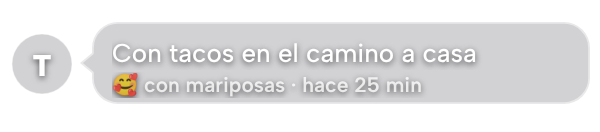
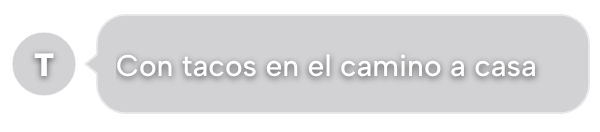
v0.16: widget Mensaje de tu pareja solo con el mensaje, más grande y en dos renglones (D153)
Claude-Session: https://claude.ai/code/session_014Dsa232AGtBDfYiLzBcD7V

diff --git a/src/widgets/components/message.ts b/src/widgets/components/message.ts
@@ -18,12 +18,13 @@ const TAIL_H = 10;
 /** Sombra tonal de la burbuja (dp): más sutil que la de las formas del lienzo de 100. */
 export const BUBBLE_SHADOW = 3;
 /** Relleno interior de la burbuja (dp). */
-const PAD_IN = 6;
+const PAD_IN = 7;
 const PAD_IN_X = 10;
-const AVATAR = 34;
-const FONT_SIZE = 13;
-const META_SIZE = 10.5;
-const META_HEIGHT = 13;
+const AVATAR = 36;
+/** Letra del mensaje (v0.16: de 13 a 15, sin la línea del mood debajo). */
+const FONT_SIZE = 15;
+/** Renglones del mensaje cuando la celda da para ellos. */
+const MAX_LINES = 2;
 
 export type MessageLayout = {
   /** Diámetro del círculo de la inicial y su esquina superior izquierda (dp, desde el widget). */
@@ -41,30 +42,27 @@ export type MessageLayout = {
   /** Altura (en la caja de la burbuja) a la que apunta la colita. */
   tailY: number;
   fontSize: number;
-  metaSize: number;
   initialSize: number;
   lineHeight: number;
-  /** Líneas del mensaje: siempre una, con "…" si no cabe (v0.14.2). */
+  /** Renglones del mensaje (con "…" si no cabe): 2, o 1 si la celda es muy bajita. */
   lines: number;
-  /** Si va la línea del mood debajo del mensaje. */
-  showMeta: boolean;
   /** Relleno del texto dentro de la caja de la burbuja. */
   textLeft: number;
   textRight: number;
 };
 
 /**
- * Burbuja delgadita (v0.14.2): mide lo que su contenido (una línea de mensaje y la del mood) y va
- * centrada en el alto del widget, sin importar el tamaño de la celda. Sin espacio muerto.
+ * Burbuja (v0.16): solo el mensaje, a la izquierda y en hasta dos renglones; mide lo que su contenido y
+ * va centrada en el alto del widget, sin importar el tamaño de la celda. Si la celda no da para
+ * dos renglones, se queda en uno.
  */
-export function messageLayout(size: MessageSize, hasMeta: boolean): MessageLayout {
+export function messageLayout(size: MessageSize): MessageLayout {
   const height = Math.max(36, Math.floor(size.height));
   const width = Math.max(120, Math.floor(size.width));
   const lineHeight = Math.ceil(FONT_SIZE * 1.25);
-  const withMeta = PAD_IN * 2 + lineHeight + 1 + META_HEIGHT;
-  // Si la celda es muy bajita, se va la línea del mood antes que el mensaje.
-  const showMeta = hasMeta && withMeta + BUBBLE_SHADOW <= height;
-  const bodyHeight = showMeta ? withMeta : PAD_IN * 2 + lineHeight;
+  const bodyFor = (n: number) => PAD_IN * 2 + lineHeight * n;
+  const lines = bodyFor(MAX_LINES) + BUBBLE_SHADOW <= height ? MAX_LINES : 1;
+  const bodyHeight = bodyFor(lines);
   const bubbleHeight = bodyHeight + BUBBLE_SHADOW;
   const avatar = Math.min(AVATAR, height - 2);
   const avatarLeft = PAD_X;
@@ -73,7 +71,7 @@ export function messageLayout(size: MessageSize, hasMeta: boolean): MessageLayou
   const bubbleTop = Math.max(0, Math.round((height - bubbleHeight) / 2));
   const avatarTop = Math.max(0, bubbleTop + Math.round((bodyHeight - avatar) / 2));
   // Deja recto el tramo del costado donde sale la colita.
-  const radius = Math.min(14, Math.max(4, Math.floor(bodyHeight / 2) - TAIL_H / 2 - 1));
+  const radius = Math.min(16, Math.max(4, Math.floor(bodyHeight / 2) - TAIL_H / 2 - 1));
 
   return {
     avatar,
@@ -87,11 +85,9 @@ export function messageLayout(size: MessageSize, hasMeta: boolean): MessageLayou
     radius,
     tailY: Math.round((bodyHeight / 2) * 10) / 10,
     fontSize: FONT_SIZE,
-    metaSize: META_SIZE,
     initialSize: Math.round(avatar * 0.46),
     lineHeight,
-    lines: 1,
-    showMeta,
+    lines,
     textLeft: TAIL_W + PAD_IN_X,
     textRight: PAD_IN_X,
   };
@@ -151,8 +147,8 @@ export function bubbleSvg(l: MessageLayout, style: WidgetStyle, partner: FruitKe
 }
 
 /** Colores del texto de la burbuja. */
-export function bubbleText(style: WidgetStyle): { message: string; meta: string; shadow: boolean } {
+export function bubbleText(style: WidgetStyle): { message: string; shadow: boolean } {
   return style === 'frost'
-    ? { message: '#FFFFFF', meta: 'rgba(255,255,255,0.8)', shadow: true }
-    : { message: lightColors.ink, meta: lightColors.inkMuted, shadow: false };
+    ? { message: '#FFFFFF', shadow: true }
+    : { message: lightColors.ink, shadow: false };
 }

diff --git a/src/widgets/__tests__/message.test.ts b/src/widgets/__tests__/message.test.ts
@@ -9,55 +9,47 @@ import {
 import { FRUITS } from '@/lib/fruits';
 
 describe('messageLayout', () => {
-  it('una sola línea de mensaje con el mood debajo', () => {
-    const l = messageLayout({ width: 320, height: 60 }, true);
-    expect(l.lines).toBe(1);
-    expect(l.showMeta).toBe(true);
+  it('solo el mensaje, en dos renglones con letra de 15', () => {
+    const l = messageLayout({ width: 320, height: 60 });
+    expect(l.lines).toBe(2);
+    expect(l.fontSize).toBe(15);
   });
 
-  it('la burbuja es delgadita: no crece con el alto de la celda', () => {
-    const short = messageLayout({ width: 320, height: 60 }, true);
-    const tall = messageLayout({ width: 320, height: 110 }, true);
+  it('la burbuja no crece con el alto de la celda y va centrada', () => {
+    const short = messageLayout({ width: 320, height: 60 });
+    const tall = messageLayout({ width: 320, height: 110 });
     expect(tall.bubbleHeight).toBe(short.bubbleHeight);
-    expect(short.bubbleHeight).toBeLessThanOrEqual(48);
-    // Centrada en el alto del widget.
+    expect(short.bubbleHeight).toBeLessThanOrEqual(56);
     expect(tall.bubbleTop).toBe(Math.round((110 - tall.bubbleHeight) / 2));
   });
 
-  it('en una celda muy bajita se va el mood, no el mensaje', () => {
-    const l = messageLayout({ width: 250, height: 40 }, true);
-    expect(l.showMeta).toBe(false);
+  it('en una celda muy bajita se queda en un renglón', () => {
+    const l = messageLayout({ width: 250, height: 40 });
     expect(l.lines).toBe(1);
-  });
-
-  it('sin mood, la burbuja es todavía más delgada', () => {
-    const a = messageLayout({ width: 320, height: 80 }, true);
-    const b = messageLayout({ width: 320, height: 80 }, false);
-    expect(b.bubbleHeight).toBeLessThan(a.bubbleHeight);
+    expect(l.bubbleHeight).toBeLessThan(messageLayout({ width: 250, height: 60 }).bubbleHeight);
   });
 
   it('la burbuja cabe en el widget y la colita queda en el tramo recto', () => {
     for (const size of [
       { width: 250, height: 40 },
+      { width: 250, height: 52 },
       { width: 250, height: 60 },
       { width: 320, height: 60 },
       { width: 320, height: 110 },
     ]) {
-      for (const meta of [true, false]) {
-        const l = messageLayout(size, meta);
-        expect(l.bubbleLeft + l.bubbleWidth).toBeLessThanOrEqual(size.width);
-        expect(l.bubbleTop + l.bubbleHeight).toBeLessThanOrEqual(size.height);
-        expect(l.avatarTop + l.avatar).toBeLessThanOrEqual(size.height);
-        expect(l.tailY - 5).toBeGreaterThanOrEqual(l.radius);
-        expect(l.tailY + 5).toBeLessThanOrEqual(l.bodyHeight - l.radius);
-        expect(l.bodyHeight + BUBBLE_SHADOW).toBe(l.bubbleHeight);
-      }
+      const l = messageLayout(size);
+      expect(l.bubbleLeft + l.bubbleWidth).toBeLessThanOrEqual(size.width);
+      expect(l.bubbleTop + l.bubbleHeight).toBeLessThanOrEqual(size.height);
+      expect(l.avatarTop + l.avatar).toBeLessThanOrEqual(size.height);
+      expect(l.tailY - 5).toBeGreaterThanOrEqual(l.radius);
+      expect(l.tailY + 5).toBeLessThanOrEqual(l.bodyHeight - l.radius);
+      expect(l.bodyHeight + BUBBLE_SHADOW).toBe(l.bubbleHeight);
     }
   });
 });
 
 describe('dibujo del mensaje', () => {
-  const l = messageLayout({ width: 320, height: 60 }, true);
+  const l = messageLayout({ width: 320, height: 60 });
   const partner = 'mango';
 
   it('tonal: fruta al 100 % y burbuja Hueso con sombra de la fruta', () => {

diff --git a/src/widgets/components/MessageFrame.tsx b/src/widgets/components/MessageFrame.tsx
@@ -1,6 +1,6 @@
 'use no memo';
 // Widget "Mensaje de tu pareja": a la izquierda un círculo con su inicial y a la derecha una
-// burbuja con colita que lleva la nota de su mood. Sin fondo propio: la burbuja es un SVG
+// burbuja con colita que lleva solo la nota de su mood (a la izquierda y centrada en el alto, hasta dos renglones). Sin fondo propio: la burbuja es un SVG
 // (tonal: Hueso con sombra de su fruta; Escarcha: blanco translúcido con contorno).
 import { FlexWidget, OverlapWidget, SvgWidget, TextWidget } from 'react-native-android-widget';
 
@@ -24,7 +24,7 @@ const TEXT_SHADOW = {
 } as const;
 
 export function MessageFrame({ name, size, view }: Props) {
-  const layout = messageLayout(size, view.meta !== null);
+  const layout = messageLayout(size);
   const { style, fruits } = view;
   const text = bubbleText(style);
   const shadow = text.shadow ? TEXT_SHADOW : {};
@@ -107,26 +107,11 @@ export function MessageFrame({ name, size, view }: Props) {
               width: 'match_parent',
               fontFamily: FONT.medium,
               fontSize: layout.fontSize,
+              textAlign: 'left',
               color: col(text.message),
               ...shadow,
             }}
           />
-          {layout.showMeta && view.meta ? (
-            <TextWidget
-              text={view.meta}
-              maxLines={1}
-              truncate="END"
-              allowFontScaling={false}
-              style={{
-                width: 'match_parent',
-                marginTop: 1,
-                fontFamily: FONT.semiBold,
-                fontSize: layout.metaSize,
-                color: col(text.meta),
-                ...shadow,
-              }}
-            />
-          ) : null}
         </FlexWidget>
       </OverlapWidget>
     </FlexWidget>

diff --git a/src/components/widget-preview/WidgetPreview.tsx b/src/components/widget-preview/WidgetPreview.tsx
@@ -27,7 +27,7 @@ const SHADOW = {
 
 function MessagePreview({ name, model, width, height }: WidgetPreviewProps) {
   const view = messageView(name, model);
-  const l = messageLayout({ width, height }, view.meta !== null);
+  const l = messageLayout({ width, height });
   const text = bubbleText(view.style);
   const shadow = text.shadow ? SHADOW : {};
   return (
@@ -82,24 +82,16 @@ function MessagePreview({ name, model, width, height }: WidgetPreviewProps) {
         >
           <Text
             numberOfLines={l.lines}
-            style={{ fontWeight: '500', fontSize: l.fontSize, color: text.message, ...shadow }}
+            style={{
+              fontWeight: '500',
+              fontSize: l.fontSize,
+              lineHeight: l.lineHeight,
+              color: text.message,
+              ...shadow,
+            }}
           >
             {view.message}
           </Text>
-          {l.showMeta && view.meta ? (
-            <Text
-              numberOfLines={1}
-              style={{
-                marginTop: 1,
-                fontWeight: '600',
-                fontSize: l.metaSize,
-                color: text.meta,
-                ...shadow,
-              }}
-            >
-              {view.meta}
-            </Text>
-          ) : null}
         </View>
       </View>
     </View>

diff --git a/src/widgets/__tests__/render.test.tsx b/src/widgets/__tests__/render.test.tsx
@@ -187,16 +187,20 @@ describe('renderWidget', () => {
     }
   });
 
-  it('el mensaje va siempre en una línea con "…"', () => {
+  it('el mensaje va en dos renglones a la izquierda con "…" (uno si la celda es muy bajita)', () => {
     const lines = (height: number) => {
       const json = JSON.stringify(treeOf('PartnerMessage', MODELS.ready, { width: 320, height }));
       return Math.max(...[...json.matchAll(/"maxLines":(\d)/g)].map((m) => Number(m[1])));
     };
-    expect(lines(60)).toBe(1);
-    expect(lines(140)).toBe(1);
+    expect(lines(40)).toBe(1);
+    expect(lines(60)).toBe(2);
+    expect(lines(140)).toBe(2);
     expect(
       JSON.stringify(treeOf('PartnerMessage', MODELS.ready, { width: 320, height: 60 })),
     ).toContain('"truncate":"END"');
+    const json = JSON.stringify(treeOf('PartnerMessage', MODELS.ready, { width: 320, height: 60 }));
+    expect(json).toContain('"textAlign":"left"');
+    expect(json).not.toContain('mariposas ·');
   });
 
   it('la story abre la de tu pareja', () => {

diff --git a/src/widgets/__tests__/view.test.ts b/src/widgets/__tests__/view.test.ts
@@ -228,13 +228,13 @@ describe('messageView', () => {
     name: 'PartnerMessage' | 'PartnerMessageFrost' = 'PartnerMessage',
   ) => messageView(name, model(over));
 
-  it('la nota es el mensaje, con el mood debajo', () => {
+  it('la nota es el mensaje, sin el mood debajo', () => {
     const v = msg({
       partnerMood: { emoji: '🥰', note: 'Te quiero', created_at: '2026-10-30T17:35:00Z' },
     });
     expect(v.initial).toBe('C');
     expect(v.message).toBe('Te quiero');
-    expect(v.meta).toMatch(/^🥰 con mariposas · /);
+    expect(v).not.toHaveProperty('meta');
     expect(v.a11y).toContain('Mensaje de Caleb: Te quiero');
     expect(v.style).toBe('tonal');
   });
@@ -242,7 +242,6 @@ describe('messageView', () => {
   it('sin nota pero con mood: "Anda ..."', () => {
     const v = msg();
     expect(v.message).toBe('Anda feliz 😄');
-    expect(v.meta).toBeNull();
     const blank = msg({
       partnerMood: { emoji: '😄', note: '   ', created_at: '2026-10-30T17:35:00Z' },
     });

diff --git a/src/widgets/view.ts b/src/widgets/view.ts
@@ -247,8 +247,6 @@ export type MessageView = {
   initial: string;
   /** Lo que dice la burbuja. */
   message: string;
-  /** "🥰 enamorado · hace 25 min", solo si hay mood y nota. */
-  meta: string | null;
   a11y: string;
   fruits: { me: FruitKey; partner: FruitKey };
 };
@@ -263,7 +261,7 @@ export function messageView(name: WidgetName, model: WidgetModel): MessageView {
   const style = widgetStyle(name);
   const fruits = fruitsOf(model);
   const who = model.partnerName;
-  const base = { style, initial: initialOf(who), fruits, meta: null };
+  const base = { style, initial: initialOf(who), fruits };
 
   if (model.status === 'signed_out') {
     return {
@@ -302,7 +300,6 @@ export function messageView(name: WidgetName, model: WidgetModel): MessageView {
   return {
     ...base,
     message: note,
-    meta: `${mood.emoji} ${feeling}${mood.ago ? ` · ${mood.ago}` : ''}`,
     a11y: `Mensaje de ${who}: ${note}. Se siente ${feeling} ${mood.emoji}${ago}.`,
   };
 }

diff --git a/docs/PLAN.md b/docs/PLAN.md
@@ -1165,6 +1165,18 @@ revisa, integra y cierra.
 **Entregable APK:** `v0.15.0`. Backend: migración de `fruit_clash` (prompt para el servidor antes
 de publicar el APK).
 
+### v0.16 — Mensaje de tu pareja más legible
+
+Observaciones del usuario (2026-11-23). Rama `claude/siguiente-fase-proyecto-ror21b`. Primera
+versión nombrada por versión y no por fase (D152).
+
+**Tareas:**
+1. **Widget "Mensaje de tu pareja"** (D153): fuera el mood y hace cuánto; solo el mensaje, con letra
+   de 15 (antes 13) en hasta dos renglones, a la izquierda y centrado en el alto, y la burbuja un
+   poco más alta. ✅
+
+**Entregable APK:** `v0.16.0` (sin cambios de servidor).
+
 ---
 
 ## 10. Estado del proyecto
@@ -1196,6 +1208,7 @@ de publicar el APK).
 | Ajustes v0.14.x (entrar, pendientes, widgets escarcha, camino, stories) | ✅ Mergeada (v0.14.4) | #30 | D139–D143. APK **v0.14.0** publicado el 2026-11-21, pero se cerraba al llegar a Inicio (worklet de `HalfMoon` llamando a `fillTop`, D144); **v0.14.1** con el arreglo y una prueba que lo vigila, publicado el 2026-11-21 (CI verde). **v0.14.4** (D147, publicado el 2026-11-21, CI verde): causa raíz de las stories colgadas (marcar como vista cancelaba la firma de la foto en vuelo). **v0.14.3** (D146, publicado el 2026-11-21, CI verde): visor de stories con vigilante de 12 s y motivo del fallo (las de foto de la novia se quedaban girando). **v0.14.2** (D145, publicado el 2026-11-21, CI verde): burbuja de "Su mensaje" delgadita con "…" y nombres "Color · …"/"Escarcha · …" porque One UI no los agrupó. PR #30 mergeado a `main` a pedido del usuario (2026-11-23). Falta probar la v0.14.4 con una story de foto nueva. Rama `claude/determined-galileo-rvli3f`. Sin cambios de servidor. Entrar sin scroll y sin barras (implementador), `/pending` (implementador), el camino `WaitPath` + media luna animada (disenador-ui), 14 widgets: tonal + Escarcha gris translúcida y el nuevo Mensaje de tu pareja (implementador). Notas en `docs/releases/v0.14.0.md`. |
 | Ajustes v0.14.5 (teclado en hojas) | 🟡 APK publicado (v0.14.6), por probar | | El teclado ya no tapa los campos de las hojas (nota del mood, respuestas a stories, listas): la hoja hace scroll y lleva el campo enfocado a la vista (D148); además renglones de listas y aire sobre el teclado en formularios. Sin cambios de servidor. Notas en `docs/releases/v0.14.5.md`. El APK v0.14.5 (2026-11-22) salió sin la v0.14.x de `main` (la rama nació antes); se mezcló `main` y se relanzó como **v0.14.6** (notas en `v0.14.6.md`; APK publicado el 2026-11-23). Pendiente de probar en el celular y de PR. |
 | Ajustes v0.15 (frutas, filtros, Lo que viene) | ✅ Desplegada y mergeada (v0.15.0) | #32 | D149–D151. PR mergeado a `main` a pedido del usuario (2026-11-23); falta probar el APK en el celular (`docs/releases/v0.15.0.md`). Servidor desplegado el 2026-11-23 (`efe79c2`, 23 migraciones). Botón flotante al cambiar de fruta, solo se bloquea la fruta elegida (migración `20261123000000_fruit_clash_same_only`), nombres centrados, Todas/Sin contestar/Contestadas en cada categoría y fuera las notas de relleno en Lo que viene. Rama `ajustes-v0.15`. |
+| v0.16 (mensaje de tu pareja) | 🟡 En curso | | D152–D153. Trabajo nombrado por versión desde aquí. Widget de mensaje solo con el mensaje, letra 15 en dos renglones a la izquierda y burbuja más alta. Sin cambios de servidor. |
 
 ### 10.1 Camino a la v1.0.0
 

diff --git a/docs/DECISIONS.md b/docs/DECISIONS.md
@@ -163,3 +163,4 @@ de la D16 en adelante se toman durante las fases. Cada fase agrega aquí lo que 
 | D150 | **Solo choca la misma fruta** (v0.15; corrige D100/D129). Fuera el bloqueo por grupo de color y por pares parecidos: `fruitClash` y `private.fruit_clash` devuelven `same` o nada (migración `20261123000000_fruit_clash_same_only`). `set_fruit` conserva su cuerpo; la rama `fruit_too_similar` queda inalcanzable. |
 | D151 | **Filtros por categoría** (v0.15): Todas / Sin contestar / Contestadas con `Segmented` bajo el encabezado; "contestada" es desde tu lado (`answered_by_me`, incluye las que esperan a tu pareja). Todas conserva el orden de `sortForMe`. Lo que viene pierde las notas automáticas ("Sale de su aniversario"/"…del cumpleaños en el perfil"). |
 | D152 | **El trabajo se nombra por versión, no por fase** (desde la v0.16). Cada sesión toma como referencia la versión de la app que va a entregar: sección `### v0.N — …` en §9 del plan, fila en §10, commits `v0.N: …`, notas `docs/releases/v0.N.P.md` con encabezado `# v0.N.P — Nombre` y título del release igual. `release-apk.yml` cambia el input `fase` por `titulo` y sigue aceptando las notas viejas `# Fase N — …`. | Pedido del usuario: dejar de ponerle "Fase". | 2026-11-23 |
+| D153 | **Widget "Mensaje de tu pareja" solo con el mensaje** (v0.16; corrige D142/D145). Fuera la línea del mood y hace cuánto (siguen en el lector de pantalla); letra de 13 → 15, hasta **dos renglones** con "…" alineados a la izquierda y centrados en el alto, burbuja un poco más alta (cuerpo de 43 → 52 dp, relleno 7, radio hasta 16) y círculo de 34 → 36 dp. Si la celda no da para dos renglones, queda uno. `MessageView` pierde `meta` y `messageLayout` ya no recibe `hasMeta`; vistas previas regeneradas. | Pedido del usuario: se leía demasiado chico. | 2026-11-23 |

diff --git a/docs/DISENO.md b/docs/DISENO.md
@@ -303,7 +303,9 @@ solo dato va debajo.
   degradados. Las fotos de story siguen en color.
 - **Mensaje de tu pareja** (D142): el único widget ancho (4×1, de 3×1 a 4×2): su fruta en círculo
   con la inicial y una burbuja con colita (tonal: Hueso con sombra de su fruta y texto en tinta;
-  Escarcha: gris translúcido y texto blanco) con el mensaje de su mood y, abajo, mood y hace cuánto.
+  Escarcha: gris translúcido y texto blanco) con **solo** el mensaje de su mood (D153): Albert Sans
+  500 a 15, hasta dos renglones con "…", alineado a la izquierda y centrado en el alto; uno solo si
+  la celda es muy bajita.
 
 ### 9.1 Mascota (D128)
 
